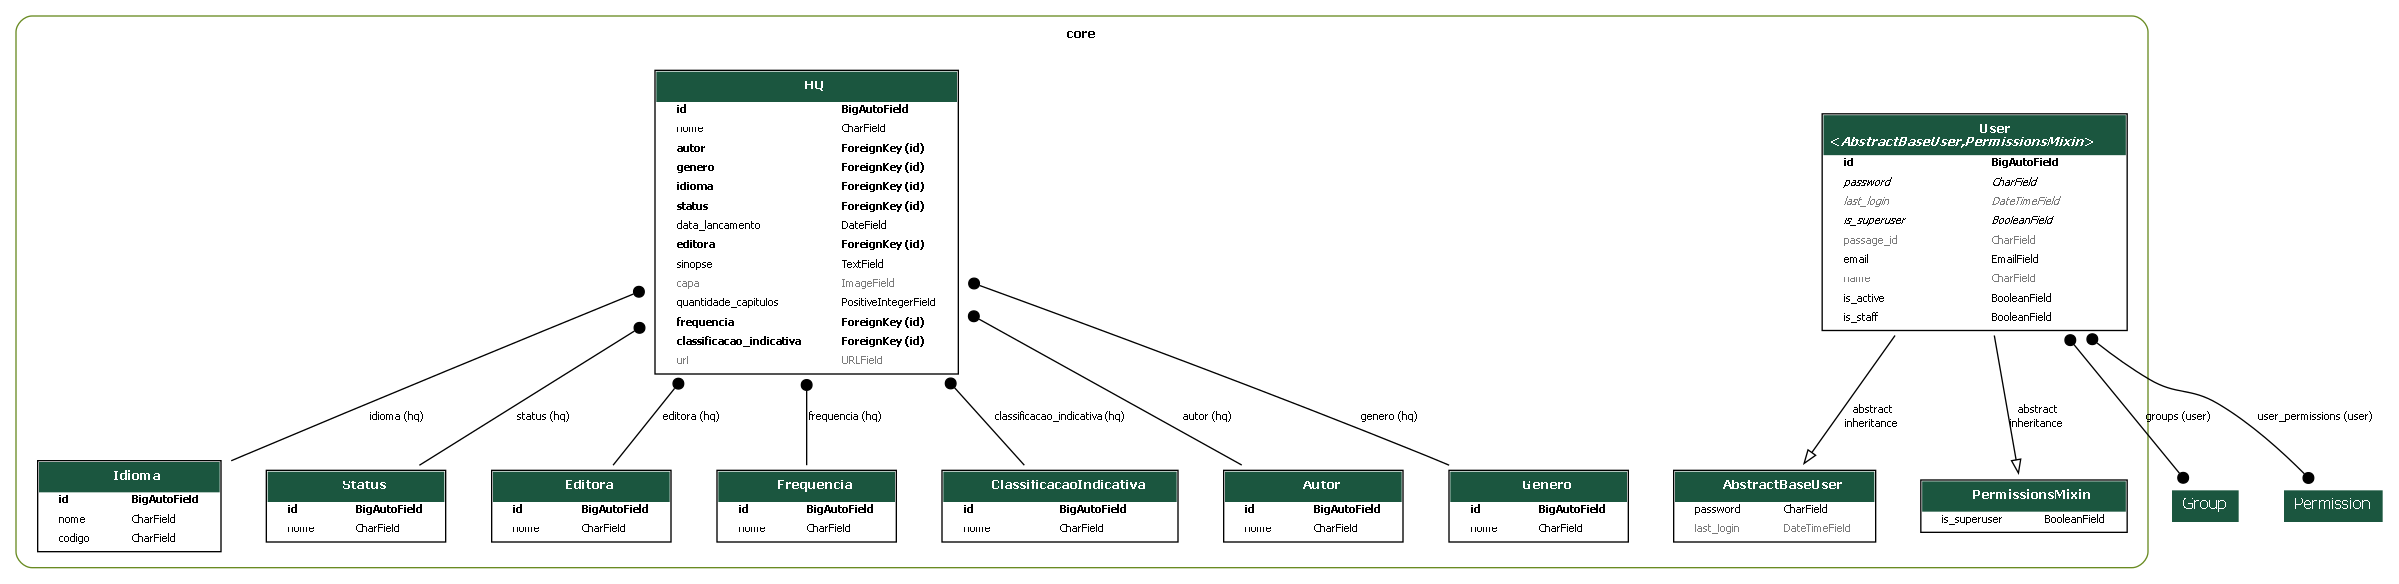
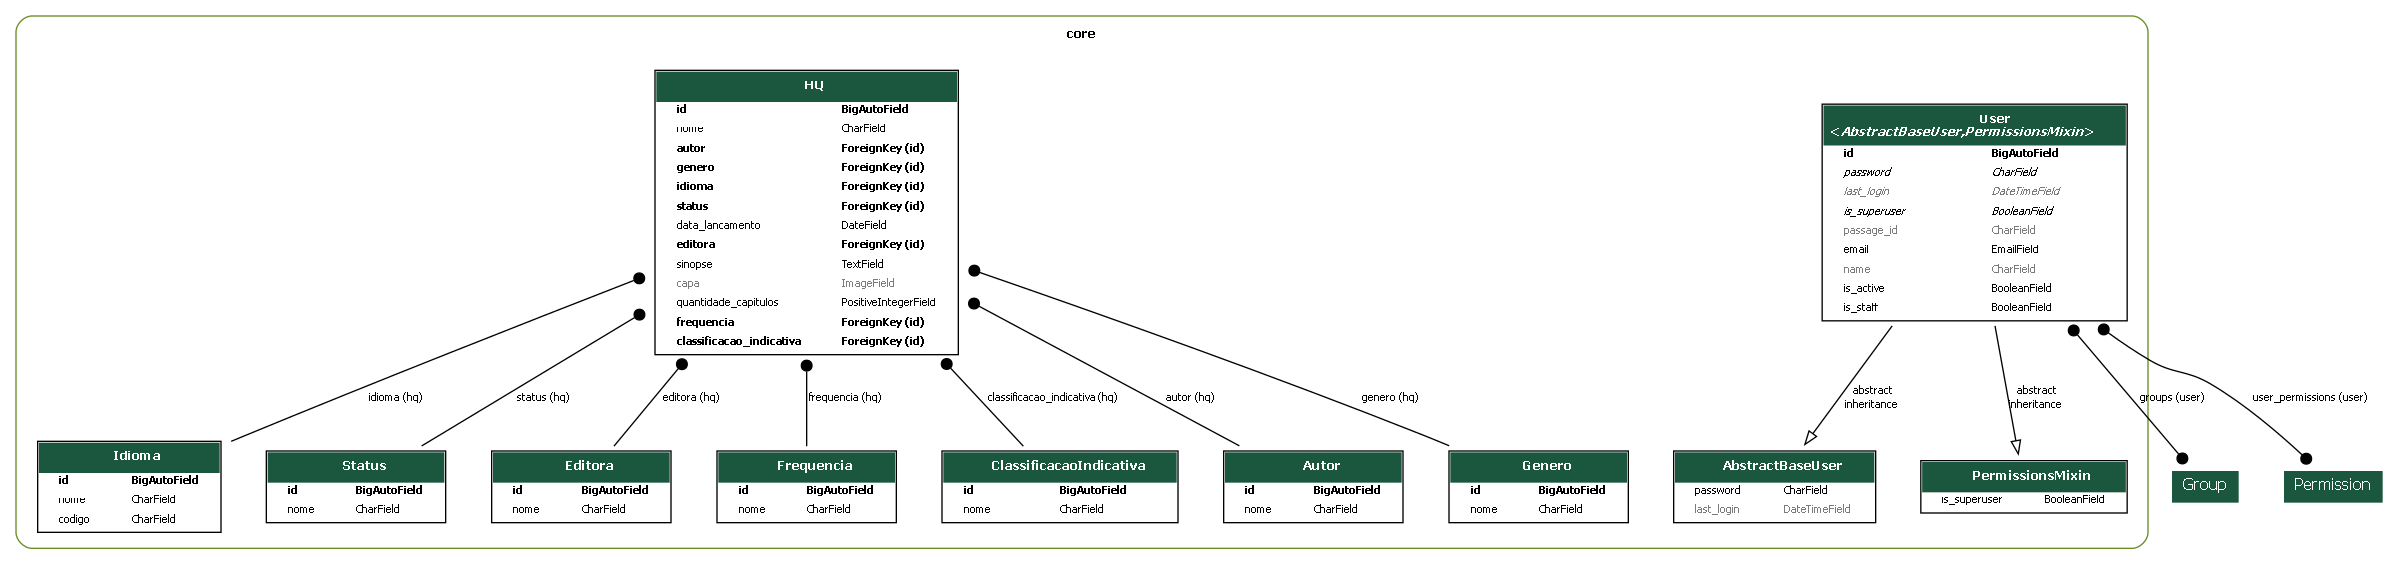
ajuste

diff --git a/core/models/hqs.py b/core/models/hqs.py
@@ -20,7 +20,6 @@ class HQ(models.Model):
     quantidade_capitulos = models.PositiveIntegerField()
     frequencia = models.ForeignKey(Frequencia, on_delete=models.PROTECT)
     classificacao_indicativa = models.ForeignKey('ClassificacaoIndicativa', on_delete=models.PROTECT, default=1)
-    url = models.URLField(max_length=500, blank=True, null=True)
 
     def __str__(self):
         return self.nome

diff --git a/core/migrations/0016_remove_hq_url.py b/core/migrations/0016_remove_hq_url.py
@@ -1,0 +1,17 @@
+# Generated by Django 5.1.7 on 2025-10-28 16:41
+
+from django.db import migrations
+
+
+class Migration(migrations.Migration):
+
+    dependencies = [
+        ('core', '0015_hq_url'),
+    ]
+
+    operations = [
+        migrations.RemoveField(
+            model_name='hq',
+            name='url',
+        ),
+    ]

diff --git a/core/serializers/hqs.py b/core/serializers/hqs.py
@@ -32,5 +32,4 @@ class HQSerializer(serializers.ModelSerializer):
             'quantidade_capitulos',
             'frequencia',
             'classificacao_indicativa',
-            'url',
         ]
